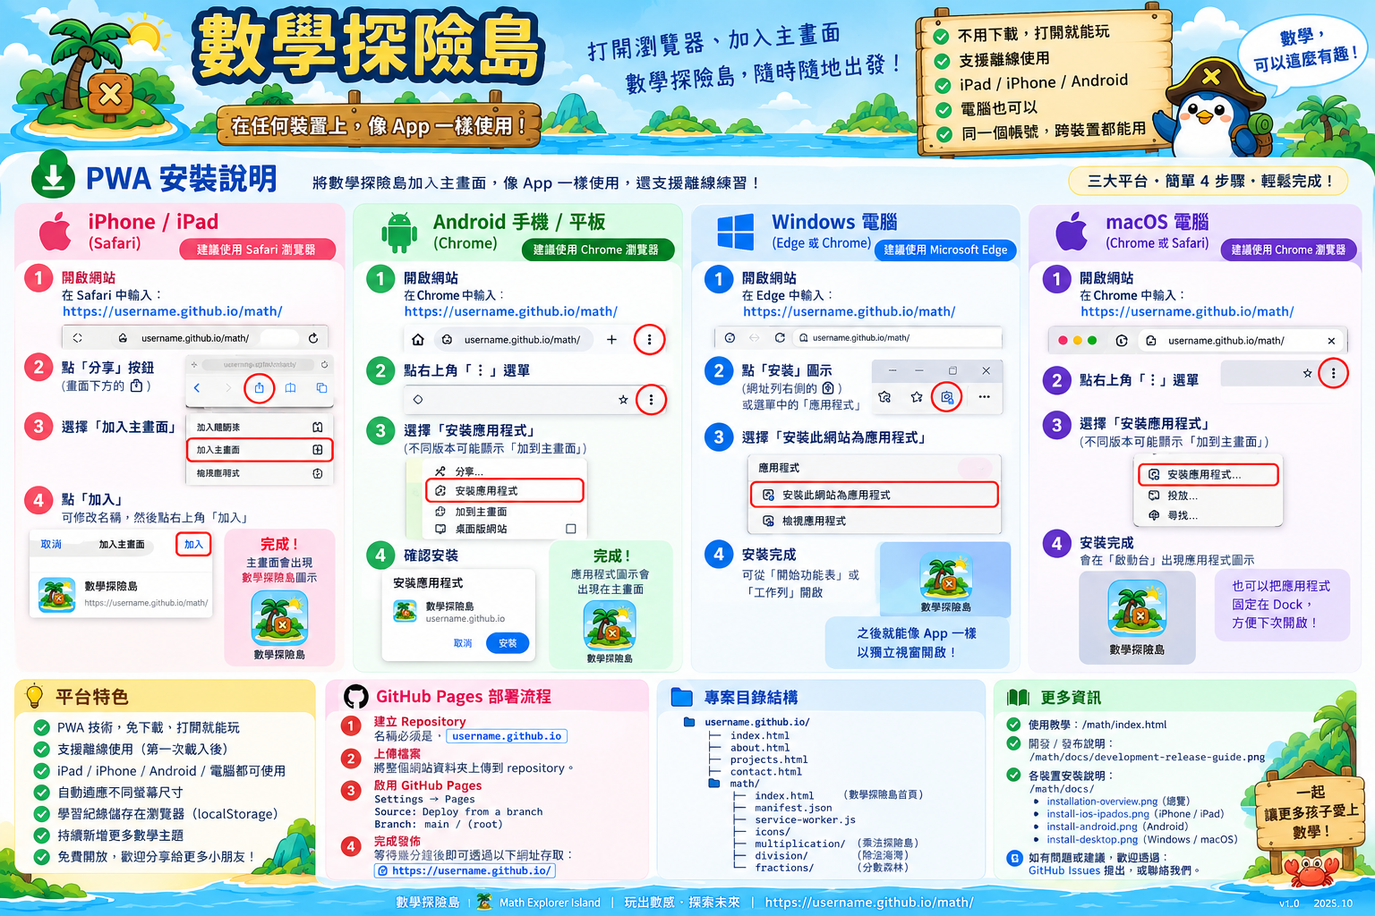
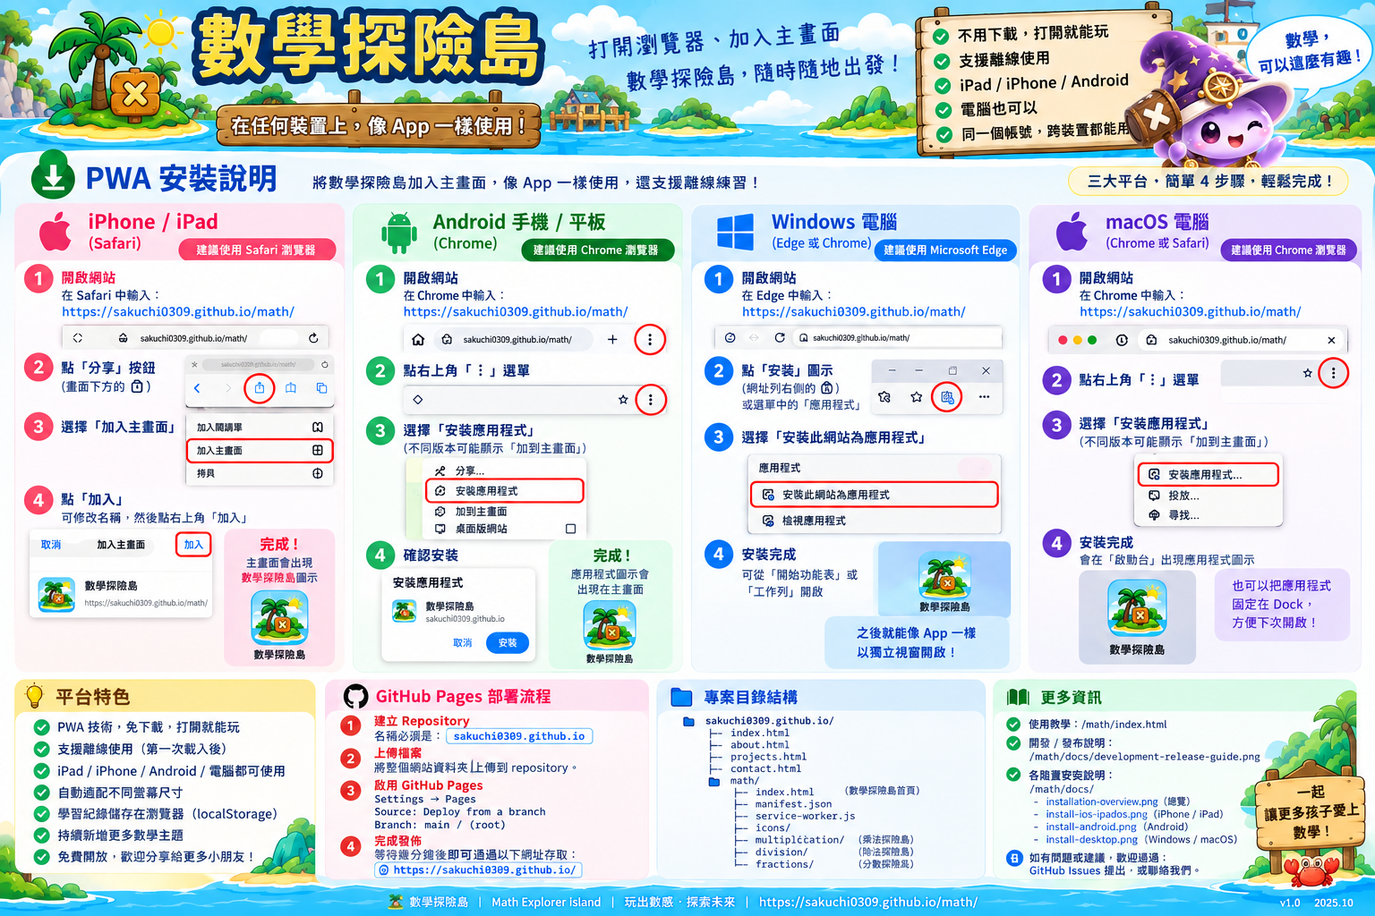
Add files via upload

diff --git a/about.html b/about.html
@@ -3,40 +3,135 @@
 <head>
 <meta charset="utf-8">
 <meta name="viewport" content="width=device-width,initial-scale=1,viewport-fit=cover">
-<title>關於我</title>
+<meta name="description" content="數學探險島的起點、設計理念與想帶給孩子的學習體驗。">
+<meta name="theme-color" content="#38bdf8">
+<title>關於數學探險島</title>
 <style>
-:root{--bg:#f7fbff;--ink:#16324f;--muted:#60758a;--card:#fff;--brand:#2563eb;--line:#dbeafe}
+:root{
+  --ink:#16324f;--muted:#5f7387;--brand:#2563eb;--brand2:#06b6d4;
+  --sky:#effaff;--sea:#dff7ff;--card:#fff;--line:#d6ebf7;
+  --yellow:#fff3a7;--green:#dcfce7;--pink:#ffe5ef;--purple:#eee7ff;
+  --shadow:0 14px 40px rgba(33,103,151,.10);--radius:26px;
+}
 *{box-sizing:border-box}
-body{margin:0;font-family:-apple-system,BlinkMacSystemFont,"Segoe UI","Noto Sans TC",sans-serif;background:linear-gradient(#eef8ff,#fff);color:var(--ink)}
-header{padding:18px 22px;background:#fff;border-bottom:1px solid var(--line);position:sticky;top:0;z-index:5}
-nav{display:flex;gap:14px;flex-wrap:wrap;align-items:center}
-nav a{text-decoration:none;color:var(--ink);font-weight:800}
-nav a.brand{font-size:20px;color:var(--brand);margin-right:auto}
-main{max-width:980px;margin:auto;padding:42px 20px 70px}
-.hero{padding:34px;border-radius:24px;background:#fff;border:1px solid var(--line);box-shadow:0 12px 32px rgba(37,99,235,.08)}
-h1{font-size:clamp(32px,6vw,58px);margin:.15em 0}
-p{line-height:1.8;color:var(--muted)}
-.grid{display:grid;grid-template-columns:repeat(auto-fit,minmax(220px,1fr));gap:16px;margin-top:24px}
-.card{display:block;background:#fff;border:1px solid var(--line);border-radius:20px;padding:20px;text-decoration:none;color:inherit;box-shadow:0 8px 22px rgba(15,23,42,.05)}
-.card:hover{transform:translateY(-2px)}
-.badge{display:inline-block;padding:5px 9px;border-radius:999px;background:#dbeafe;color:#1d4ed8;font-weight:800;font-size:13px}
-.button{display:inline-block;margin-top:10px;padding:12px 16px;border-radius:14px;background:var(--brand);color:white;text-decoration:none;font-weight:900}
-footer{text-align:center;color:#789;padding:30px}
+html{scroll-behavior:smooth}
+body{margin:0;font-family:-apple-system,BlinkMacSystemFont,"Segoe UI","Noto Sans TC","PingFang TC",sans-serif;color:var(--ink);background:linear-gradient(180deg,#e8f9ff 0,#f9fdff 44%,#fff 100%)}
+a{color:inherit}
+header{position:sticky;top:0;z-index:20;padding:14px max(18px,env(safe-area-inset-right)) 14px max(18px,env(safe-area-inset-left));background:rgba(255,255,255,.92);backdrop-filter:blur(14px);border-bottom:1px solid var(--line)}
+nav{max-width:1120px;margin:auto;display:flex;gap:10px;align-items:center;flex-wrap:wrap}
+nav a{text-decoration:none;font-weight:850;padding:10px 12px;border-radius:12px;min-height:44px;display:flex;align-items:center}
+nav a:hover{background:#eef7ff}
+nav a.brand{margin-right:auto;color:#1459c7;font-size:20px}
+nav a.active{background:#e8f2ff;color:#1459c7}
+nav a.island{background:linear-gradient(135deg,#dff7ff,#e8fff0);color:#087b73}
+main{max-width:1120px;margin:auto;padding:34px 20px 80px}
+.hero{position:relative;overflow:hidden;padding:clamp(30px,6vw,66px);border:1px solid var(--line);border-radius:32px;background:radial-gradient(circle at 85% 16%,#fff6a8 0 6%,transparent 6.5%),linear-gradient(135deg,#fff 0,#effaff 48%,#e6fff6 100%);box-shadow:var(--shadow)}
+.hero:before,.hero:after{content:"";position:absolute;border-radius:999px;opacity:.5;pointer-events:none}.hero:before{width:210px;height:210px;right:-75px;top:-70px;background:#bdeeff}.hero:after{width:150px;height:150px;right:90px;bottom:-90px;background:#baf3cf}
+.eyebrow{display:inline-flex;gap:8px;align-items:center;background:#e7f5ff;color:#1765b8;font-weight:900;border-radius:999px;padding:8px 13px;letter-spacing:.04em}
+h1{font-size:clamp(38px,7vw,72px);line-height:1.08;margin:18px 0 16px;letter-spacing:-.035em;max-width:850px}.hero-subtitle{font-size:clamp(17px,2.2vw,21px);font-weight:850;color:#31709b;margin:0 0 20px;letter-spacing:.02em}.lead{font-size:clamp(18px,2.5vw,23px);line-height:1.8;color:#47657e;max-width:800px;margin:24px 0 0}.hero-quote{margin-top:0;display:inline-block;background:#173f6b;color:white;padding:20px 22px;border-radius:18px;font-weight:900;font-size:clamp(19px,2.5vw,24px);line-height:1.7;box-shadow:0 10px 28px rgba(23,63,107,.16)}.hero-quote .line{display:block}.hero-quote .wind{color:#ffef8a}
+.section{margin-top:26px;background:var(--card);border:1px solid var(--line);border-radius:var(--radius);padding:clamp(24px,4vw,38px);box-shadow:0 10px 30px rgba(33,103,151,.06)}
+.section-head{display:flex;gap:14px;align-items:flex-start;margin-bottom:16px}.icon{width:52px;height:52px;border-radius:16px;display:grid;place-items:center;font-size:27px;flex:0 0 52px}.blue{background:#e3f1ff}.yellow{background:#fff5bd}.green{background:#dcfce7}.pink{background:#ffe5ef}.purple{background:#eee7ff}
+h2{font-size:clamp(25px,4vw,36px);margin:0 0 6px}.kicker{margin:0;color:#668097;font-weight:750}.section p{font-size:17px;line-height:1.9;color:var(--muted);margin:12px 0}.strong{color:#16324f;font-weight:900}
+.dialogue{display:grid;grid-template-columns:1fr 1fr;gap:14px;margin:22px 0}.bubble{border-radius:20px;padding:18px 20px;font-size:17px;line-height:1.7;font-weight:800}.adult{background:#fff3df;border:1px solid #f8d9a4}.child{background:#e8f4ff;border:1px solid #c8e0f7}
+.tool-grid{display:grid;grid-template-columns:repeat(5,1fr);gap:12px;margin-top:20px}.tool{border:1px solid var(--line);border-radius:18px;padding:18px 12px;text-align:center;background:#fbfeff}.tool .emoji{font-size:30px}.tool b{display:block;margin-top:8px}.tool small{display:block;color:#6a8093;margin-top:5px;line-height:1.5}
+.chain{display:flex;align-items:stretch;gap:8px;overflow:auto;padding:10px 2px 8px;scrollbar-width:thin}.step{min-width:128px;background:#f8fbfe;border:1px solid var(--line);border-radius:16px;padding:15px;text-align:center;font-weight:850}.arrow{align-self:center;color:#57a2d8;font-size:24px;font-weight:900}.chain .step:last-child{background:#fff0f4;border-color:#ffd0dc}
+.reset{margin-top:20px;padding:20px;border-radius:20px;background:linear-gradient(135deg,#effaff,#effff4);border:1px solid #cfeede}.reset b{font-size:19px}.reset p{margin-bottom:0}
+.principles{display:grid;grid-template-columns:repeat(3,1fr);gap:14px;margin-top:18px}.principle{padding:20px;border:1px solid var(--line);border-radius:20px;background:#fcfeff}.principle b{font-size:18px}.principle p{font-size:15px;margin-bottom:0}
+.path{margin:24px 0 8px;display:flex;flex-wrap:wrap;justify-content:center;align-items:center;gap:10px}.path span{padding:11px 15px;border-radius:999px;font-weight:900;background:#edf7ff;border:1px solid #cfe6f8}.path i{font-style:normal;color:#63a9d8;font-size:22px}
+.statement{margin-top:26px;text-align:center;padding:clamp(28px,5vw,50px);border-radius:30px;background:linear-gradient(135deg,#153b69,#176f9a);color:#fff;box-shadow:var(--shadow)}.statement h2{font-size:clamp(28px,5vw,46px)}.statement p{max-width:760px;margin:14px auto 0;color:#dcefff;font-size:18px;line-height:1.9}.statement .final{display:block;margin-top:24px;color:#ffef8a;font-size:clamp(20px,3vw,28px);font-weight:950}
+.cta-row{display:flex;gap:12px;justify-content:center;flex-wrap:wrap;margin-top:24px}.button{display:inline-flex;align-items:center;justify-content:center;min-height:48px;padding:12px 18px;border-radius:14px;text-decoration:none;font-weight:900}.primary{background:#fff;color:#1459c7}.secondary{border:1px solid #80bad8;color:#fff}
+footer{text-align:center;color:#789;padding:28px 20px calc(28px + env(safe-area-inset-bottom));font-size:14px}
+@media(max-width:840px){.tool-grid{grid-template-columns:repeat(2,1fr)}.principles{grid-template-columns:1fr}.dialogue{grid-template-columns:1fr}.chain{flex-direction:column}.arrow{transform:rotate(90deg)}}
+@media(max-width:560px){header{padding-top:8px;padding-bottom:8px}nav{gap:4px}nav a{padding:9px 8px;font-size:14px}nav a.brand{font-size:17px}.hero{border-radius:24px;padding:30px 22px}.section{padding:23px 19px}.tool-grid{grid-template-columns:1fr 1fr}.hero-quote{width:100%}}
+@media(prefers-reduced-motion:reduce){html{scroll-behavior:auto}}
 </style>
 </head>
 <body>
-<header><nav>
-<a class="brand" href="./index.html">首頁</a>
-<a href="./about.html">關於</a>
+<header><nav aria-label="主要導覽">
+<a class="brand" href="./index.html">✨ sakuchi0309</a>
+<a class="active" href="./about.html" aria-current="page">關於</a>
 <a href="./projects.html">專案</a>
 <a href="./contact.html">聯絡</a>
-<a href="./math/">🏝 數學探險島</a>
+<a class="island" href="./math/">🏝 數學探險島</a>
 </nav></header>
+
 <main>
 <section class="hero">
-<h1>關於我</h1>
-<p>這一頁保留給你的個人介紹。之後可加入背景、專長、開發理念與教育工具設計想法。</p>
+  <span class="eyebrow">🏝 WHY MATH EXPLORER ISLAND</span>
+  <h1>關於數學探險島</h1>
+  <p class="hero-subtitle">從陪孩子學習開始的一場探索</p>
+  <div class="hero-quote">
+    <span class="line">成長不需要被催促，飛翔也不需要被比較；</span>
+    <span class="line wind">給孩子一點時間，陪他找到屬於自己的風。</span>
+  </div>
+  <p class="lead">我是一位軟體開發者，也是一位陪孩子學習的大人。擅長軟體開發，也習慣從不同角度拆解問題，把複雜的事情整理成可以理解、可以操作、可以反覆嘗試的工具。</p>
+</section>
+
+<section class="section">
+  <div class="section-head"><div class="icon blue">👨💻</div><div><h2>起點：只是想陪孩子把數學學好</h2><p class="kicker">從一個很普通、也很真實的家庭學習場景開始</p></div></div>
+  <p>「數學探險島」最初並不是一個產品計畫，而只是希望陪家中的小朋友，把數學學得更容易一點、更開心一點。</p>
+  <p>真正一起學之後，我才發現：<span class="strong">孩子學不會時會挫折，大人教不會時也會著急。</span>同一道題明明已經說過很多次，孩子仍可能不知道「為什麼要這樣做」；大人則很容易因為擔心進度而越教越急。</p>
+  <div class="dialogue">
+    <div class="bubble adult">👨👩👧「這不是剛剛才教過嗎？怎麼又忘了？」</div>
+    <div class="bubble child">🧒「我知道你教過……可是我還是不知道為什麼。」</div>
+  </div>
+  <p>這讓我開始重新思考：孩子真正缺少的，也許不是更多題目，而是<span class="strong">更多理解問題的方法，以及可以沒有壓力地重新嘗試的機會。</span></p>
+</section>
+
+<section class="section">
+  <div class="section-head"><div class="icon yellow">🧰</div><div><h2>孩子卡住的，不一定是數學</h2><p class="kicker">有時候，只是還不熟悉手上的工具</p></div></div>
+  <p>例如「乘法」看起來只是一個運算，但對孩子來說，其實同時存在許多不同的理解工具。當某一種方式聽不懂，不代表沒有能力理解，也許只是還沒有找到適合自己的入口。</p>
+  <div class="tool-grid" aria-label="數學學習工具示例">
+    <div class="tool"><div class="emoji">➕</div><b>連加</b><small>把乘法先看成重複加法</small></div>
+    <div class="tool"><div class="emoji">🟢</div><b>分組</b><small>看見「幾組、每組幾個」</small></div>
+    <div class="tool"><div class="emoji">▦</div><b>方格</b><small>用陣列理解數量與面積</small></div>
+    <div class="tool"><div class="emoji">🧩</div><b>拆解</b><small>把大問題拆成幾個小問題</small></div>
+    <div class="tool"><div class="emoji">✏</div><b>直式</b><small>熟悉位值與標準計算流程</small></div>
+  </div>
+  <div class="reset"><b>💡 一種方法不懂，就換一種方法。</b><p>多看一次、多操作幾次、多換一個角度，都可能讓原本模糊的概念突然變清楚。數學探險島希望把這些「工具」做成孩子可以親手操作的探索體驗。</p></div>
+</section>
+
+<section class="section">
+  <div class="section-head"><div class="icon pink">🌱</div><div><h2>真正可怕的，是挫折形成連鎖反應</h2><p class="kicker">當「不知道」慢慢變成「我就是不會」</p></div></div>
+  <p>孩子在還沒上學以前，本來就很喜歡問「為什麼」。發現新的東西，本身就是一種樂趣。但當學習開始同時承載成績、課程進度、同儕比較，以及老師與家長的焦慮時，探索可能漸漸變成壓力。</p>
+  <div class="chain" aria-label="學習挫折的連鎖反應">
+    <div class="step">不理解</div><div class="arrow">→</div>
+    <div class="step">做錯</div><div class="arrow">→</div>
+    <div class="step">被比較／有壓力</div><div class="arrow">→</div>
+    <div class="step">害怕犯錯</div><div class="arrow">→</div>
+    <div class="step">不想嘗試</div><div class="arrow">→</div>
+    <div class="step">練習變少</div><div class="arrow">→</div>
+    <div class="step">基礎不足</div><div class="arrow">→</div>
+    <div class="step">後面更難理解</div>
+  </div>
+  <p>課程仍然持續往前，沒有理解的地方卻可能被留在後面。久而久之，孩子面對的已經不只是某一道題，而是逐漸累積的挫折感。</p>
+  <div class="reset"><b>「我不懂這一題」和「我就是不會」是完全不同的兩件事。</b><p>我希望設計能盡可能把孩子留在前者：允許不知道、允許慢一點、允許重新來過，直到找到理解的方法。</p></div>
+</section>
+
+<section class="section">
+  <div class="section-head"><div class="icon green">🧭</div><div><h2>數學探險島想做的事</h2><p class="kicker">把「被要求學習」重新轉回「我想知道下一步」</p></div></div>
+  <p>我希望這裡不是另一個要求孩子一直答題、一直追求速度的地方，而是一個能夠自己操作、自己觀察、自己犯錯、自己重來，也能自己發現規律的空間。<span class="strong">學習可以慢，但不能因為被催趕而失去繼續嘗試的勇氣。</span></p>
+  <div class="principles">
+    <div class="principle"><b>🎮 讓練習有探索感</b><p>透過關卡、自我挑戰與逐步解鎖，讓孩子願意主動多試一次。</p></div>
+    <div class="principle"><b>🧰 讓工具可以被操作</b><p>把連加、拆解、方格、直式等概念變成看得見、摸得到的學習方式。</p></div>
+    <div class="principle"><b>🌟 讓成功經驗累積</b><p>不是只看答對幾題，而是讓孩子感受到「原來我可以理解、我可以做到」。</p></div>
+  </div>
+  <div class="path" aria-label="數學探險島學習路徑">
+    <span>好奇</span><i>→</i><span>探索</span><i>→</i><span>發現</span><i>→</i><span>理解</span><i>→</i><span>練習</span><i>→</i><span>挑戰</span><i>→</i><span>自信</span>
+  </div>
+</section>
+
+<section class="statement">
+  <h2>我希望孩子找回的，不只是成績。</h2>
+  <p>我想保留下來的，是孩子原本就有的好奇心：因為好奇而願意探索，在探索中產生發現，從發現累積理解與自信。當孩子願意再試一次、再多走一步，數學就不只是壓力，而能重新成為一場屬於自己的冒險。</p>
+  <span class="final">找回那個因好奇而探索、因發現而喜歡學習的孩子。</span>
+  <div class="cta-row">
+    <a class="button primary" href="./math/">🏝 前往數學探險島</a>
+    <a class="button secondary" href="./contact.html">💬 分享你的想法</a>
+  </div>
 </section>
 </main>
-<footer>GitHub Pages</footer>
-</body></html>
+
+<footer>Math Explorer Island · Built with curiosity ✨</footer>
+</body>
+</html>

diff --git a/contact.html b/contact.html
@@ -3,40 +3,79 @@
 <head>
 <meta charset="utf-8">
 <meta name="viewport" content="width=device-width,initial-scale=1,viewport-fit=cover">
-<title>聯絡方式</title>
+<meta name="description" content="聯絡數學探險島：功能建議、使用回饋、教育交流與問題回報。">
+<meta name="theme-color" content="#38bdf8">
+<title>聯絡｜數學探險島</title>
 <style>
-:root{--bg:#f7fbff;--ink:#16324f;--muted:#60758a;--card:#fff;--brand:#2563eb;--line:#dbeafe}
-*{box-sizing:border-box}
-body{margin:0;font-family:-apple-system,BlinkMacSystemFont,"Segoe UI","Noto Sans TC",sans-serif;background:linear-gradient(#eef8ff,#fff);color:var(--ink)}
-header{padding:18px 22px;background:#fff;border-bottom:1px solid var(--line);position:sticky;top:0;z-index:5}
-nav{display:flex;gap:14px;flex-wrap:wrap;align-items:center}
-nav a{text-decoration:none;color:var(--ink);font-weight:800}
-nav a.brand{font-size:20px;color:var(--brand);margin-right:auto}
-main{max-width:980px;margin:auto;padding:42px 20px 70px}
-.hero{padding:34px;border-radius:24px;background:#fff;border:1px solid var(--line);box-shadow:0 12px 32px rgba(37,99,235,.08)}
-h1{font-size:clamp(32px,6vw,58px);margin:.15em 0}
-p{line-height:1.8;color:var(--muted)}
-.grid{display:grid;grid-template-columns:repeat(auto-fit,minmax(220px,1fr));gap:16px;margin-top:24px}
-.card{display:block;background:#fff;border:1px solid var(--line);border-radius:20px;padding:20px;text-decoration:none;color:inherit;box-shadow:0 8px 22px rgba(15,23,42,.05)}
-.card:hover{transform:translateY(-2px)}
-.badge{display:inline-block;padding:5px 9px;border-radius:999px;background:#dbeafe;color:#1d4ed8;font-weight:800;font-size:13px}
-.button{display:inline-block;margin-top:10px;padding:12px 16px;border-radius:14px;background:var(--brand);color:white;text-decoration:none;font-weight:900}
-footer{text-align:center;color:#789;padding:30px}
+:root{
+  --ink:#16324f;--muted:#5f7387;--brand:#2563eb;--brand2:#06b6d4;
+  --card:#fff;--line:#d6ebf7;--green:#0f9f6e;--shadow:0 14px 40px rgba(33,103,151,.10);
+}
+*{box-sizing:border-box}html{scroll-behavior:smooth}
+body{margin:0;font-family:-apple-system,BlinkMacSystemFont,"Segoe UI","Noto Sans TC","PingFang TC",sans-serif;color:var(--ink);background:linear-gradient(180deg,#e8f9ff 0,#fbfeff 48%,#fff 100%)}
+a{color:inherit}
+header{position:sticky;top:0;z-index:20;padding:14px max(18px,env(safe-area-inset-right)) 14px max(18px,env(safe-area-inset-left));background:rgba(255,255,255,.92);backdrop-filter:blur(14px);border-bottom:1px solid var(--line)}
+nav{max-width:1120px;margin:auto;display:flex;gap:10px;align-items:center;flex-wrap:wrap}nav a{text-decoration:none;font-weight:850;padding:10px 12px;border-radius:12px;min-height:44px;display:flex;align-items:center}nav a:hover{background:#eef7ff}nav a.brand{margin-right:auto;color:#1459c7;font-size:20px}nav a.active{background:#e8f2ff;color:#1459c7}nav a.island{background:linear-gradient(135deg,#dff7ff,#e8fff0);color:#087b73}
+main{max-width:1080px;margin:auto;padding:34px 20px 80px}.hero{position:relative;overflow:hidden;padding:clamp(30px,6vw,58px);border:1px solid var(--line);border-radius:32px;background:linear-gradient(135deg,#fff 0,#effaff 50%,#e9fff2 100%);box-shadow:var(--shadow)}.hero:after{content:"";position:absolute;width:220px;height:220px;border-radius:50%;right:-80px;top:-95px;background:#bdeeff;opacity:.5}.eyebrow{display:inline-flex;align-items:center;gap:8px;padding:8px 13px;border-radius:999px;background:#e7f5ff;color:#1765b8;font-weight:900}h1{font-size:clamp(38px,7vw,68px);line-height:1.08;margin:18px 0 14px;letter-spacing:-.03em}.lead{font-size:clamp(18px,2.5vw,22px);line-height:1.8;color:#4b687f;max-width:780px;margin:0}
+.grid{display:grid;grid-template-columns:repeat(2,1fr);gap:18px;margin-top:24px}.card{background:#fff;border:1px solid var(--line);border-radius:24px;padding:25px;box-shadow:0 10px 30px rgba(33,103,151,.06)}.card-head{display:flex;align-items:center;gap:13px}.icon{width:52px;height:52px;border-radius:16px;display:grid;place-items:center;font-size:27px}.mail{background:#fff0d8}.idea{background:#e7fff1}h2{margin:0;font-size:24px}.card p{color:var(--muted);line-height:1.8;margin:14px 0}.button{display:inline-flex;justify-content:center;align-items:center;min-height:48px;padding:12px 17px;border-radius:14px;text-decoration:none;font-weight:900;border:0}.primary{background:#1769d1;color:#fff}.green{background:#0f9f6e;color:#fff}.hint{font-size:13px;color:#7c91a3;margin-top:10px}.code{font-family:ui-monospace,SFMono-Regular,Menlo,Consolas,monospace;background:#f5f8fb;border:1px solid #e2ebf1;border-radius:10px;padding:5px 8px;word-break:break-all}
+.feedback{margin-top:24px;background:#fff;border:1px solid var(--line);border-radius:26px;padding:clamp(24px,4vw,36px);box-shadow:0 10px 30px rgba(33,103,151,.06)}.feedback h2{font-size:clamp(25px,4vw,34px)}.feedback>p{color:var(--muted);line-height:1.8}.questions{display:grid;grid-template-columns:repeat(2,1fr);gap:12px;margin-top:18px}.question{padding:17px 18px;border-radius:17px;background:#f8fcff;border:1px solid #ddebF5;font-weight:800;line-height:1.6}.question span{display:block;color:#3b91c8;font-size:13px;margin-bottom:5px}
+.note{margin-top:24px;padding:22px;border-radius:22px;background:linear-gradient(135deg,#fff9d8,#f0fff6);border:1px solid #e4e7b7}.note b{font-size:18px}.note p{color:#647783;line-height:1.8;margin-bottom:0}
+footer{text-align:center;color:#789;padding:28px 20px calc(28px + env(safe-area-inset-bottom));font-size:14px}
+@media(max-width:760px){.grid,.questions{grid-template-columns:1fr}}
+@media(max-width:560px){header{padding-top:8px;padding-bottom:8px}nav{gap:4px}nav a{padding:9px 8px;font-size:14px}nav a.brand{font-size:17px}.hero{border-radius:24px;padding:30px 22px}.card{padding:21px}}
+@media(prefers-reduced-motion:reduce){html{scroll-behavior:auto}}
 </style>
 </head>
 <body>
-<header><nav>
-<a class="brand" href="./index.html">首頁</a>
+<header><nav aria-label="主要導覽">
+<a class="brand" href="./index.html">✨ sakuchi0309</a>
 <a href="./about.html">關於</a>
 <a href="./projects.html">專案</a>
-<a href="./contact.html">聯絡</a>
-<a href="./math/">🏝 數學探險島</a>
+<a class="active" href="./contact.html" aria-current="page">聯絡</a>
+<a class="island" href="./math/">🏝 數學探險島</a>
 </nav></header>
+
 <main>
 <section class="hero">
-<h1>聯絡方式</h1>
-<p>這一頁保留給你的 Email、GitHub 或其他公開聯絡資訊。未填寫前不放任何個人資料。</p>
+  <span class="eyebrow">💬 CONTACT & FEEDBACK</span>
+  <h1>聯絡我</h1>
+  <p class="lead">如果你對數學探險島有任何想法、功能建議，或孩子在使用過程中遇到「看不懂、卡住、不知道怎麼操作」的地方，都很歡迎告訴我。這些真實的使用經驗，往往比單純的「好不好用」更有價值。</p>
+</section>
+
+<section class="grid" aria-label="聯絡方式">
+  <article class="card">
+    <div class="card-head"><div class="icon mail">✉</div><div><h2>Email</h2><div class="hint">一般聯絡／教育交流／問題回報</div></div></div>
+    <p>一般聯絡、教育交流、功能建議，以及畫面、操作或計算問題，都可以直接透過 Email 與我聯繫。若是問題回報，附上裝置、瀏覽器、操作步驟與畫面截圖，會更容易確認問題。</p>
+    <a class="button primary" href="mailto:sakuchi0309@gmail.com?subject=%E6%95%B8%E5%AD%B8%E6%8E%A2%E9%9A%AA%E5%B3%B6%EF%BD%9C%E8%81%AF%E7%B5%A1%E8%88%87%E5%9B%9E%E9%A5%8B">寄 Email</a>
+    <div class="hint code">sakuchi0309@gmail.com</div>
+  </article>
+
+  <article class="card">
+    <div class="card-head"><div class="icon idea">💡</div><div><h2>教育與使用回饋</h2><div class="hint">最希望收到的資訊</div></div></div>
+    <p>孩子哪裡卡住、哪種說明比較懂、哪個操作讓人困惑，這些都能直接幫助我調整教學流程與互動方式。</p>
+    <a class="button green" href="#feedback">看看可以怎麼回饋 ↓</a>
+  </article>
+</section>
+
+<section class="feedback" id="feedback">
+  <h2>💡 我特別希望收到這些回饋</h2>
+  <p>不需要寫得很正式。只要描述孩子當下的反應，就可能幫助我找到真正需要改善的地方。</p>
+  <div class="questions">
+    <div class="question"><span>01 · 理解</span>孩子在哪一題、哪一個步驟開始卡住？</div>
+    <div class="question"><span>02 · 方法</span>連加、拆解、方格、直式……哪一種方式比較容易理解？</div>
+    <div class="question"><span>03 · 操作</span>哪個按鈕、畫面或操作方式讓孩子困惑？</div>
+    <div class="question"><span>04 · 動機</span>完成之後，孩子會不會願意自己再挑戰一次？</div>
+    <div class="question"><span>05 · 發現</span>孩子有沒有說出「原來是這樣」或自己發現新的方法？</div>
+    <div class="question"><span>06 · 建議</span>如果只能改一件事，你最希望下一版改善什麼？</div>
+  </div>
+</section>
+
+<section class="note">
+  <b>🔐 關於公開聯絡資訊</b>
+  <p>這個網站是公開頁面。目前僅提供公開用途的 Email 作為聯絡方式，不放手機、住址、私人 LINE 或其他不必要的個人資料；不論是一般聯絡、教育交流或問題回報，都可以直接透過 Email 聯繫。</p>
 </section>
 </main>
-<footer>GitHub Pages</footer>
-</body></html>
+
+<footer>Math Explorer Island · Thanks for helping it grow 🌱</footer>
+</body>
+</html>

diff --git a/math/service-worker.js b/math/service-worker.js
@@ -1,7 +1,7 @@
 'use strict';
 
 const CACHE_PREFIX = 'math-explorer-island-';
-const CACHE_NAME = CACHE_PREFIX + 'platform-v9-1';
+const CACHE_NAME = CACHE_PREFIX + 'platform-v9-2';
 
 const APP_SHELL = [
   './',
